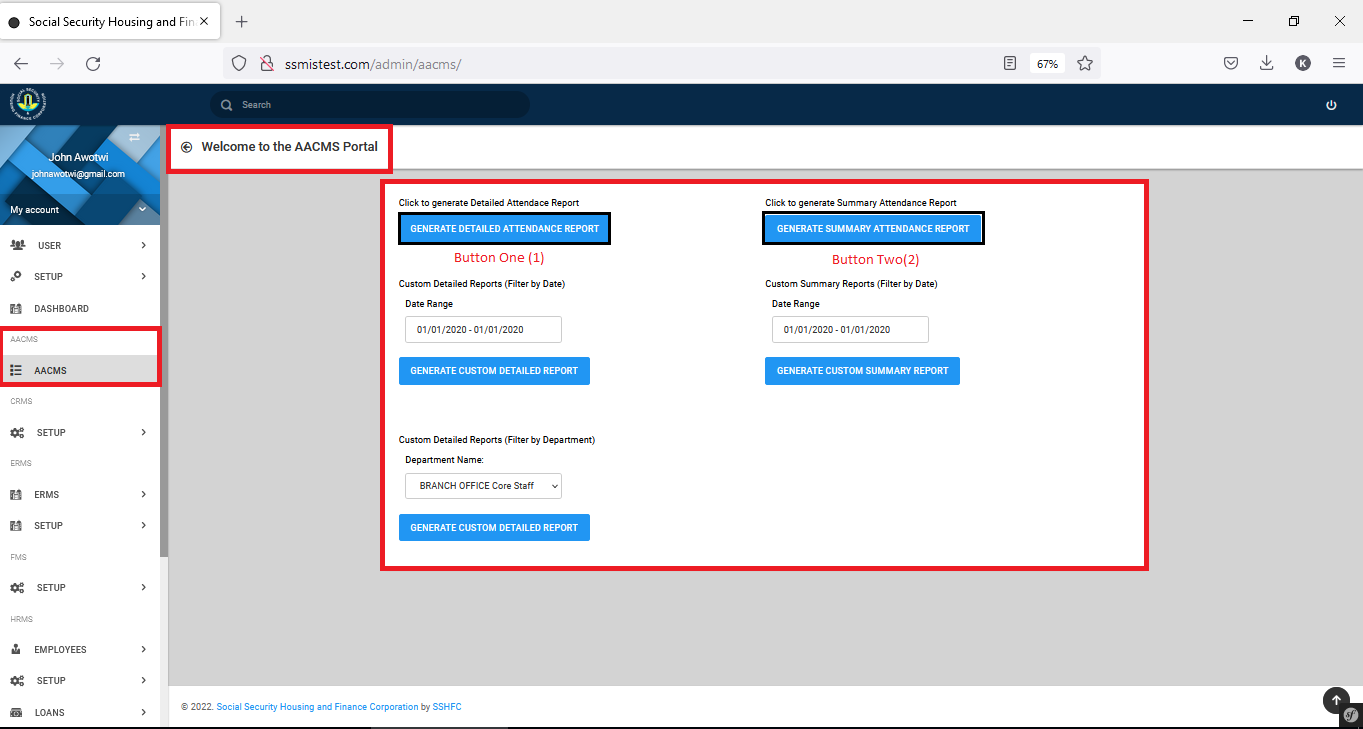
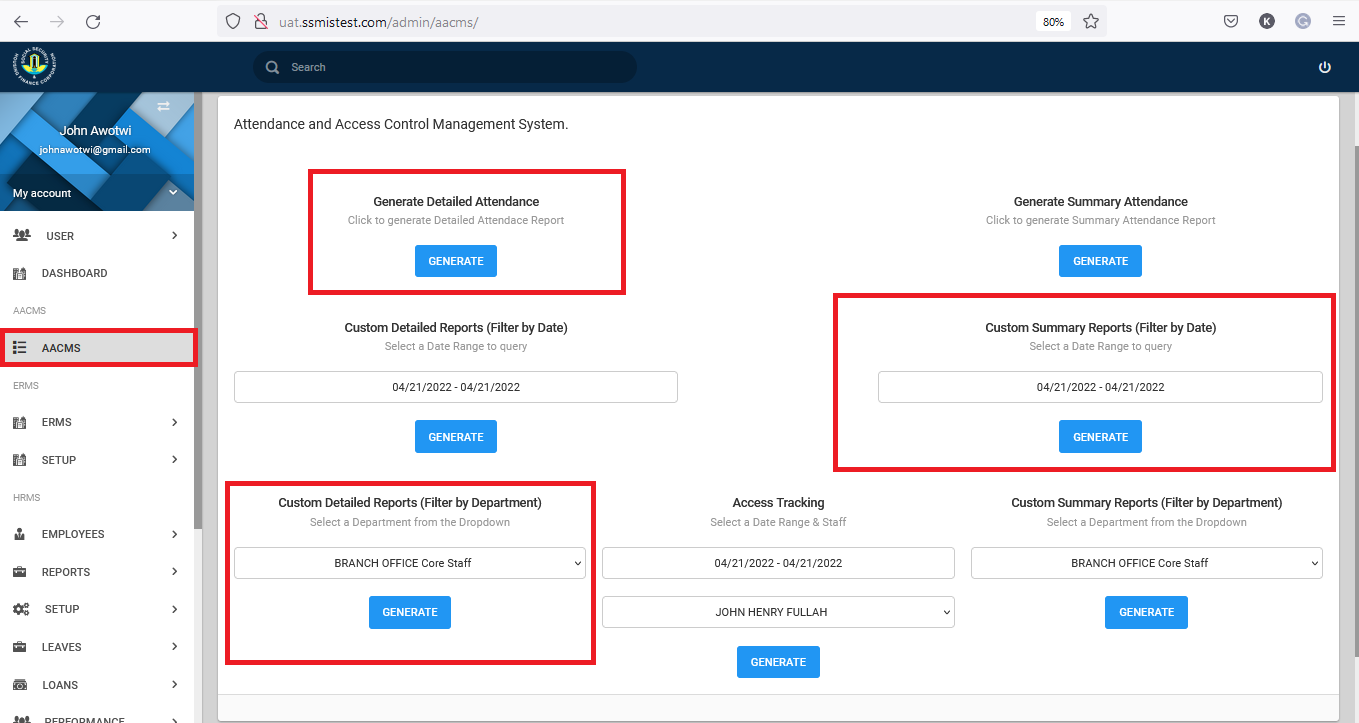
modifications for aacms and erms, with additions to payroll

diff --git a/docs/payroll.md b/docs/payroll.md
@@ -1,20 +1,46 @@
 # Introduction
 
 This user guide provides guidelines on how to use the Payroll platform which takes records of all employee details on Allowance, Deduction Type, Notch, Salary, Staff Loan & Tax.
+![Figure 4](img/payroll_dashboard.png){ align=center }
 
 ## Dashboard
+
+The following view is presented to you when you select the setup dropdown under **Payroll**
+![Figure 4](img/payroll_setup.png){ align=center }
+
 ## Allowance Setup
 
 This setup enlists all the benefits/allowances available to employees with their rate units.
+![Figure 4](img/payroll_allowance_list.png){ align=center }
+
+The above image, shows the interface you are greeted with, when you select allowance under the setups. 
+This shows all allowances that have been setup in the system. You have the ability to filter out allowances based on the name, description etc. On this page you can create new allowances, by clicking on the **Add** button.
+
+![Figure 4](img/payroll_allowance_add.png){ align=center }
+
+When thee **Add allowance **button is clicked, you are presnted with a page that accepts certain details that make up an allowance.
+The Allowance Rate is a value, either in fixed rates or a percentage, this option is available as a drop down under allowance rate values.
+
+Use the save button to complete the entry.
+
+
 
 ## Deductions Setup
 
+![Figure 4](img/payroll_deduction_list.png){ align=center }
+
+
 Deduction Types listed show all staff contributions, employer contributions, contribution unit, category, staff group as well as the actual deduction type name. 
 New records can however be added to already existing list. 
+Adding a new record, will require that you click the **add record** button.
 
-![Figure 4](img/){ align=center }
+![Figure 4](img/payroll_deduction_add.png){ align=center }
 
 Deduction Type Setup can be updated after selecting the “Add New Record” tab. Type in the deduction category code, deduction name, employee contribution and other needed details to add new deduction type to save.
+
+![Figure 4](img/payroll_deduction_update.png){ align=center }
+
+Using the actions buttons to the right, you can update existing deductions.
 
 ## Notch Setup
 

diff --git a/docs/aacms.md b/docs/aacms.md
@@ -30,8 +30,9 @@ Highlighted in <span style="color:red">red</span>, is the AACMS module.
 In this instance, we will be looking at the AACMS module. This module helps generate various reports as outputs based on member/staff attendance. Clicking <span style="color:red">AACMS</span> in the dashboard or on the sidebar opens a portal that allows users generate various reports as shown in Figure 5.
 ![Figure 5](img/aacms.png){ align=center }
 
-- Button One (1): This button generates a detailed attendance report shown in  Figure 6.
-- Button Two (2): This button generates a summary attendance report shown in Figure 7.
+There are several options / reports that can be generated,using the options provided on the main page. Detailed and Summary reports, filtered by ``dates``, ``departments``.
+
+Also included is an Access Tracking Module. This feature helps track staff movement withing the SSHFC premise.
 
 ![Figure 6](img/detailed.png){ align=left }
 ![Figure 7](img/summary.png){ align=right }
